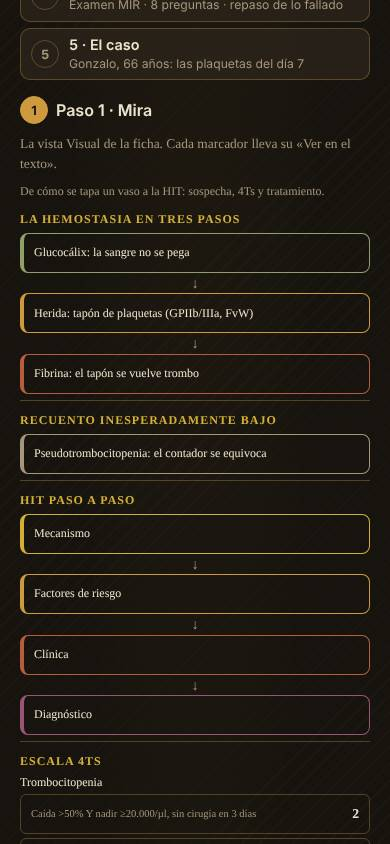
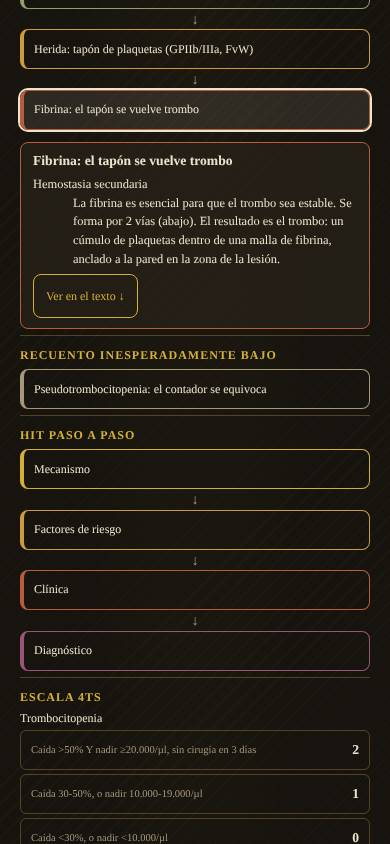
Anclas del profesor: capturas rehechas tras la calibración 1
Claude-Session: https://claude.ai/code/session_01QiKC3AYvX54NnMYW6gogmQ

diff --git a/autonomo/modelos/anclas/LEEME.md b/autonomo/modelos/anclas/LEEME.md
@@ -6,18 +6,25 @@ El profesor las mira al lado de la captura que puntúa.
 
 | Punto | Ancla (archivo de la app) | Captura | Cómo llegar en la app | Por qué es el 10 | Calibración |
 |---|---|---|---|---|---|
-| 7.1-7.3, 7.13 | Ficha Trombocitopenia y HIT, Merino HEMATO (`merino-hemato.html`) | `7-1-3-13-4ts.jpg`, `7-1-3-13-4ts-calculadora.jpg` | PIF → Hematología → Merino HEMATO → Ficha 4 | Idea arriba, bloques cortos con 1-3 resaltes con color, y la escala 4Ts calcula con su origen y página | |
-| 7.7 | La misma ficha a 360 px | `7-7-4ts-360.jpg` | Igual, con pantalla de 360 px | Sin desborde ni cortes a 360 px | |
-| 7.6 | Vista Visual de esa ficha (`merino-hemato/visual.js`) | `7-6-visual-4ts.jpg` | Ficha 4 → Estudiar → Paso 1 · Mira | Cada nodo remite a su texto; flujo, escalera y escala 4Ts dibujados | |
-| 7.4, 7.5, 7.8 | Nefrona viva (`nefrologia/nefrona-viva.js`) | `7-4-nefrona.jpg` | Nefrología → Fisiología renal → Nefrona viva (estado furosemida) | Modelo grande en el estado del tema; el mecanismo se ve moverse | |
-| 7.4, 7.5 | Atlas cap. 14, VD (`eco/atlas/cap-vd.html` + `vd.mjs`) | `7-5-8-atlas-vd.jpg` | Eco cardíaca → Atlas → 14 · Ventrículo derecho (TEP agudo) | Ecos reales del motor, mandos que cambian doppler y medidas | |
-| 7.9, 7.10 | Capilar vivo (`libros/capilar-vivo.js`) | `7-9-10-capilar.jpg` | Libros → Modelos vivos → Capilar y oxígeno → «Anemia que compensa» | Frase viva con fuentes y «Ver en la ficha»; «Explícamelo» y mandos | |
-| Mecanismo animado | Receptores animados (`cardiologia/receptores-animados.js`) | `mecanismo-receptores.jpg` | Cardiología → Merino Cardiología → Vasopresores → Receptores; elegir fármaco y dosis | Paso a paso («Paso 2 de 5») con el dibujo cambiando | |
-| 8 | Estudiar de una ficha (`data/mayeutica/b1-fluidos.js`) | `8-estudiar-b1.jpg` | Libros → Marino Fundamentos → Cristaloides → Mayéutica | Piensa antes, opciones, porqué de cada una, fuente y salto al modelo | |
-| 8 | Caso clínico en curso (`modelos/preguntas-para-estudiar.html`) | `8-caso-clinico.jpg` | Abrir el archivo con el servidor; pulsar Siguiente hasta el test | Paciente que evoluciona, datos nuevos marcados, test con «piensa antes» | |
+| 7.1, 7.13 | Atlas de eco, cap. Insuficiencia mitral (`eco/atlas/cap-mr.html`) | `7-1-13-atlas-im.jpg` | Eco cardíaca → Atlas → Insuficiencia mitral (primera pantalla) | «En 30 segundos» con cifras y fuente arriba; el hueco del ecógrafo avisa «en preparación» | 1.ª vuelta: 8,5 / 8,0 |
+| 7.7 | Misma ficha a 360 px | `7-7-atlas-im-360.jpg` | Igual, con pantalla de 360 px | Sin desborde ni cortes a 360 px | 1.ª vuelta: 9,0 |
+| 7.3 | Ficha Trombocitopenia y HIT, Merino HEMATO (`merino-hemato.html`) | `7-3-4ts.jpg`, `7-3-4ts-calculadora.jpg` | PIF → Hematología → Merino HEMATO → Ficha 4; la calculadora con riesgo alto (>50 %, día 5-10, trombosis nueva, sin otra causa = 8 puntos) | Idea arriba, bloques con resaltes, y la escala 4Ts calcula con su origen y página | 10 |
+| 7.2 | Misma ficha, bloque «Manejo según el riesgo» | `7-2-4ts-manejo.jpg` | Ficha 4 → bajar a «Manejo según el riesgo» | Conducta por riesgo con página | 1.ª vuelta: 9,0 |
+| 7.6 | Vista Visual de esa ficha (`merino-hemato/visual.js`) | `7-6-visual-4ts.jpg` | Ficha 4 → Estudiar → Paso 1 · Mira → tocar el nodo «Fibrina» | Nodo abierto con su detalle y «Ver en el texto ↓» | 1.ª vuelta: 9,0 |
+| 7.4, 7.8 | Nefrona viva (`nefrologia/nefrona-viva.js`) | `7-4-nefrona.jpg` | Nefrología → Fisiología renal → Nefrona viva (furosemida); bajar al panel «Situación» | Modelo grande en el estado del tema; mandos Situación y Fármaco | 10 |
+| 7.5 | Nefrona viva, frase viva | `7-5-nefrona-frase.jpg` | Igual, bajar a «Qué está pasando · Furosemida» | Frase del estado con «Texto ↓» y enlace a la ficha | 1.ª vuelta: 9,0/9,5 |
+| 7.4, 7.5 | Atlas cap. 14, VD (`eco/atlas/cap-vd.html` + `vd.mjs`) | `7-5-atlas-vd-signos.jpg` | Eco cardíaca → Atlas → 14 · Ventrículo derecho (TEP agudo, mando al 66 %) → «Signos de sobrecarga del VD (ESC 2019)» | Signos con sí/no/«el modelo no lo da», y hallazgo con su aviso | 10 (7.4) |
+| 7.9 | Capilar vivo (`libros/capilar-vivo.js`) | `7-9-10-capilar.jpg` | Libros → Modelos vivos → Capilar y oxígeno → «Anemia que compensa» | Frase viva con fuentes y «Ver en la ficha» | 10 |
+| 7.10 | Capilar vivo con «Explícamelo» | `7-10-capilar-explicame.jpg` | Igual → «Explícamelo →» → Siguiente (paso 2 de 4) | Explicación guiada que señala el dibujo (lupa), con fuente y salto a la ficha | 1.ª vuelta: 9,0 |
+| Mecanismo animado | Receptores animados (`cardiologia/receptores-animados.js`) | `mecanismo-receptores.jpg` | Cardiología → Merino Cardiología → Vasopresores → Receptores; norepinefrina, dosis >10 µg/min; Paso 4 de 5 | Paso a paso con la cascada encendida | 1.ª vuelta: 9,0 |
+| 8 | Estudiar de una ficha (`data/mayeutica/b1-fluidos.js`) | `8-estudiar-b1.jpg` | Libros → Marino Fundamentos → Cristaloides → Mayéutica | Piensa antes, opciones, porqué de cada una, fuente y salto al modelo | 9,5 |
+| 8 | Examen fallado en esa ficha | `8-examen-fallado.jpg` | Igual → Paso 4 · Examínate, contestar mal | «Qué le habría pasado al paciente» + explicación con fuente | pendiente |
+| 8 | Caso clínico en curso (`modelos/preguntas-para-estudiar.html`) | `8-caso-clinico.jpg` | Abrir el archivo con el servidor; pulsar Siguiente hasta el test | Paciente que evoluciona, datos nuevos marcados, test con «piensa antes» | 9,5 |
+| 8 | Caso: «encuentra el error» | `8-caso-error.jpg` | Mismo archivo, paso del plan del R1 → Corregir | Frases falsas con su corrección | pendiente |
+| 8 | Caso: final | `8-caso-final.jpg` | Mismo archivo, último paso | «Lo que te llevas» y salto a la ficha | pendiente |
 
-7.11-7.12 (modelos por concepto, megaproyectos) no tienen captura propia: se juzgan con la ancla del capilar vivo
-(`7-9-10-capilar.jpg`) y la nefrona (7.8), salvo que el profesor proponga otra.
+7.11 se juzga con el capilar vivo (`js/data/capilar-vivo-data.js`, capturas `7-9-10-capilar.jpg` y `7-10-capilar-explicame.jpg`) y
+7.12 con la nefrona viva (`7-4-nefrona.jpg`, `7-5-nefrona-frase.jpg`), salvo que el profesor proponga otra.
 
 **Regenerar**: `node autonomo/modelos/anclas/capturas.mjs [parte-del-nombre ...]` (levanta su servidor, 390×844 y 360×844,
 cierra todo al acabar). **Calibración**: única; se repite solo si cambia `.claude/agents/profesor.md` o su modelo.
